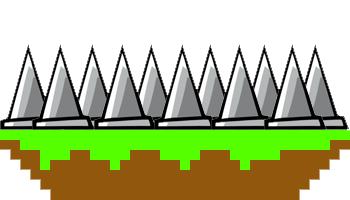
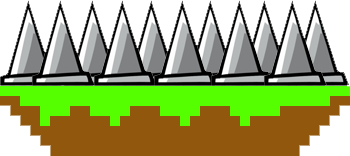
spikes set

diff --git a/src/GamePanel.java b/src/GamePanel.java
@@ -181,9 +181,9 @@ public class GamePanel extends JPanel implements ActionListener, KeyListener
         myPlatforms.add(platform21);
 
         // set up spikes
-        spike1 = new Spike(925,100);
+        spike1 = new Spike(925,110);
         spike1.drawImg();
-        spike2 = new Spike(570,120);
+        spike2 = new Spike(570,140);
         spike2.drawImg();
         spike3 = new Spike(1300,100);
         spike3.drawImg();
@@ -330,16 +330,19 @@ public class GamePanel extends JPanel implements ActionListener, KeyListener
                 else
                 {
                     death = true;
+                    hasExtinguisher = false;
                 }
             }
             if(touchingSpike())
             {
                 death = true;
+                hasExtinguisher = false;
             }
             // if player falls down to bottom it goes back to beginning
             if(p.getLocY() >= rel/3)
             {
                 death = true;
+                hasExtinguisher = false;
             }
 
             // check if pause is pressed
